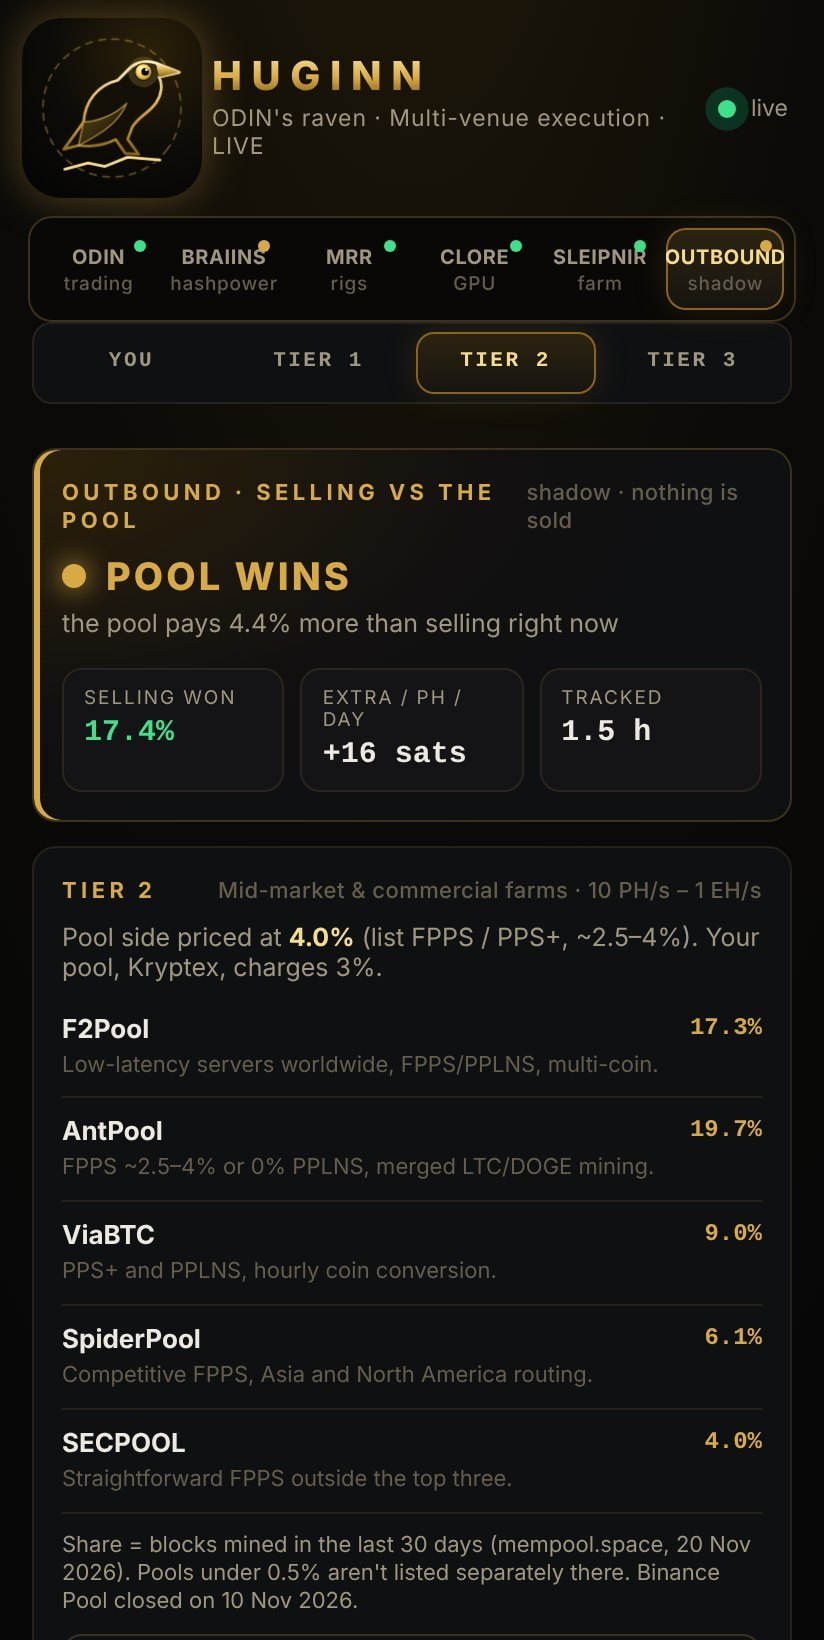
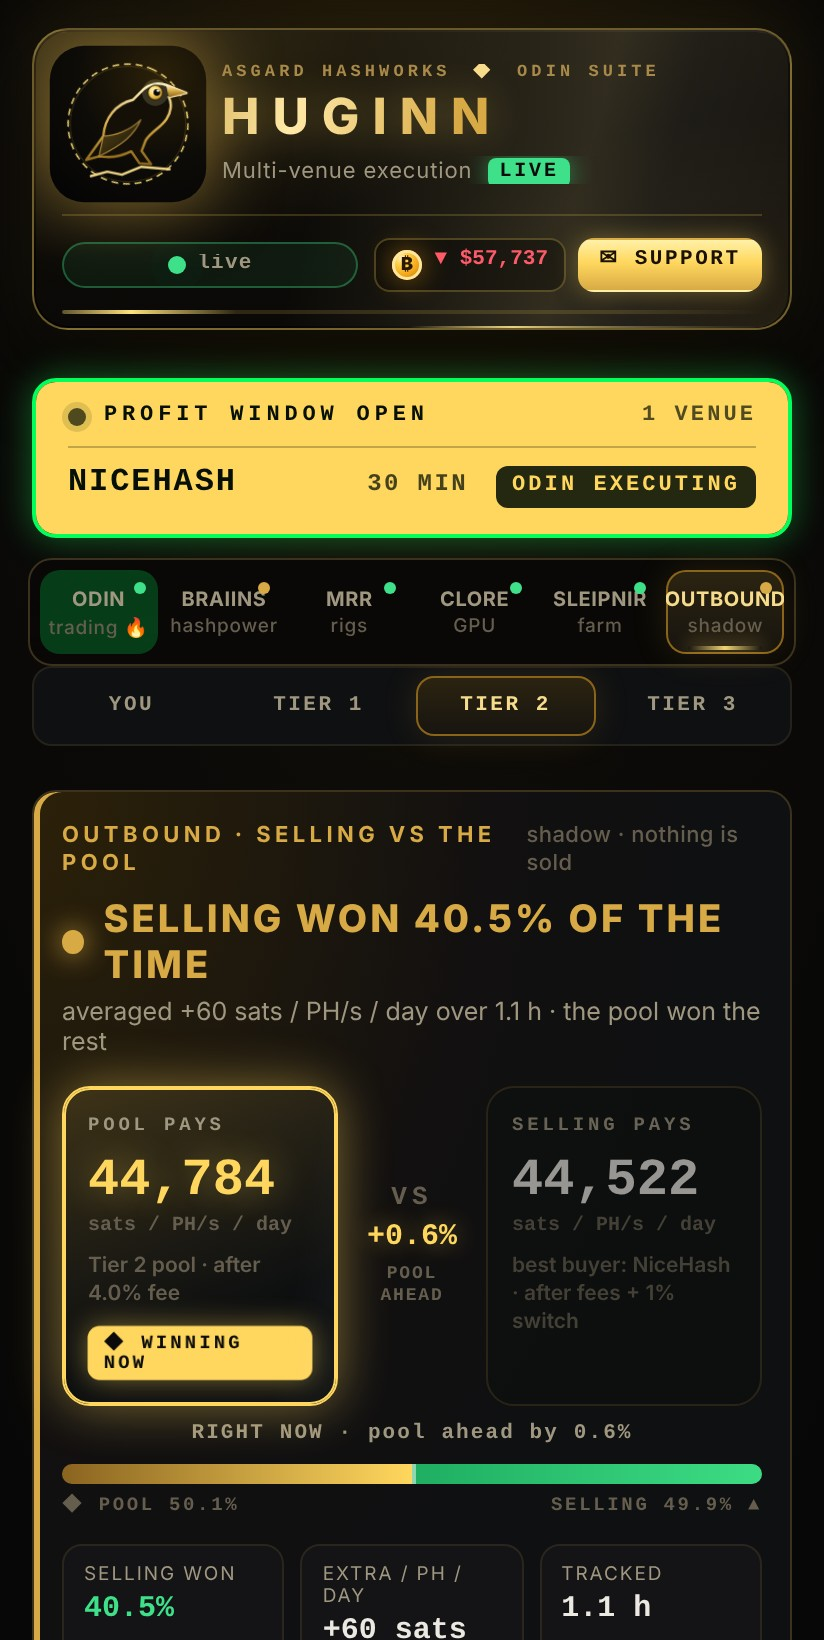
Website and README update Sat 11/21/2026

diff --git a/index.html b/index.html
@@ -974,17 +974,17 @@ odin --market nicehash live      <span class="c"># resume</span></div>
       </div>
       <div class="ob-grid">
         <div class="ob-phones">
-          <figure class="phone"><div class="frame"><img src="media/huginn-outbound-you.jpg" alt="HUGINN OUTBOUND tab, live: pool pays 45,648 sats per PH/s per day, NiceHash sellers would get 42,444, so the pool wins" loading="lazy"></div><figcaption><b>Selling vs pool</b> · every minute</figcaption></figure>
+          <figure class="phone"><div class="frame"><img src="media/huginn-outbound-you.jpg" alt="HUGINN OUTBOUND tab, live: pool pays 45,250 sats per PH/s per day, NiceHash sellers would get 44,522 after switching, so the pool wins" loading="lazy"></div><figcaption><b>Selling vs pool</b> · every minute</figcaption></figure>
           <figure class="phone"><div class="frame"><img src="media/huginn-outbound-t2.jpg" alt="HUGINN OUTBOUND Tier 2 view: mid-market farms, pool side priced at a 4% fee, with F2Pool, AntPool, ViaBTC, SpiderPool and SECPOOL" loading="lazy"></div><figcaption><b>Tier 1 · 2 · 3</b> · your pool's fee</figcaption></figure>
           <figure class="phone"><div class="frame"><img src="media/huginn-outbound-gpu.jpg" alt="HUGINN OUTBOUND GPU card: hosting on Clore.ai and Vast.ai vs mining, per model, with your own GPUs tagged and AI rental rates for H100, H200, B200 and A100" loading="lazy"></div><figcaption><b>GPUs</b> · Clore · Vast.ai · mine</figcaption></figure>
         </div>
         <div class="ob-seq">
-          <div class="step"><span class="n">01 · MEASURES</span><h3>Pool vs every buyer, every minute</h3><p>Your pool's payout after its fee, against the NiceHash clearing price after the 2% seller fee and the median price renters are paying on MiningRigRentals after its 3%. A 1% switching cost is charged against selling, so a win is a real win.</p></div>
+          <div class="step"><span class="n">01 · MEASURES</span><h3>Pool vs every buyer, every minute</h3><p>Your pool's payout after its fee, against the NiceHash clearing price after the 2% seller fee and the median price renters are paying on MiningRigRentals after its 3%, counted only for the share of time comparable rigs are actually rented. A 1% switching cost is charged against selling, thin samples are flagged low confidence, and the headline is the record, not the spike.</p></div>
           <div class="step"><span class="n">02 · BY TIER</span><h3>Priced at your pool's fee</h3><p>Tier 1, 2 and 3 views reprice the pool side at the fee each kind of operator actually pays, from negotiated institutional FPPS to list PPS+ and zero-fee pools. The answer changes with the fee, and OUTBOUND shows you yours.</p></div>
-          <div class="step"><span class="n">03 · GPUS TOO</span><h3>Host it or mine it</h3><p>For each GPU model, what renters pay on <b>Clore.ai</b> and <b>Vast.ai</b> after their cuts, against what that card earns mining. Data-centre parts (B300, GB300, B200, H200, H100, A100) show their AI rental rate. Live this morning: an RTX 5090 hosted on Vast.ai for <b>$10.56</b> a day against <b>$7.42</b> mining Pearl; an H100 SXM rents for <b>$29.28</b> a day and a B300 for <b>$189</b>. In the Tier 1 and Tier 2 views the card shows data-centre GPUs only.</p></div>
+          <div class="step"><span class="n">03 · GPUS TOO</span><h3>Host it or mine it</h3><p>For each GPU model, what renters pay on <b>Clore.ai</b> and <b>Vast.ai</b> after their cuts, against what that card earns mining. Data-centre parts (B300, GB300, B200, H200, H100, A100) show their AI rental rate. Live tonight: an RTX 5090 hosts for <b>$10.40</b> a day on Clore.ai (<b>$8.64</b> on Vast.ai) against <b>$6.66</b> mining Pearl; an H100 SXM rents for <b>$28.08</b> a day and a B300 for <b>$182.70</b>. In the Tier 1 and Tier 2 views the card shows data-centre GPUs only.</p></div>
         </div>
       </div>
-      <p class="sample mono">Live capture from our own rig · 20 Nov 2026, 09:00 CST · real numbers, nothing staged: pool 45,648 vs NiceHash seller 42,444 sats per PH/s per day, so right now the pool wins and OUTBOUND says so. On the GPU side, Vast.ai and Clore.ai hosting beat mining Pearl for most current cards.</p>
+      <p class="sample mono">Live capture from our own rig · 21 Nov 2026, 00:59 CST · real numbers, nothing staged: pool 45,250 vs NiceHash seller 44,522 sats per PH/s per day after switching, so the pool wins by 1.6% and OUTBOUND says so. Only 0.6% of comparable MRR rigs were rented, so MRR was left out as too thin to count. On the GPU side, Clore.ai and Vast.ai hosting beat mining Pearl for most current cards.</p>
       <div class="ob-build">
         <h3>Built <em>live</em> for your fleet.</h3>
         <p>Outbound routing isn't a checkbox. Every operator has a different pool contract, fleet and set of venues, so we build it with you, on your infrastructure, in stages you approve.</p>
@@ -1078,12 +1078,12 @@ odin --market nicehash live      <span class="c"># resume</span></div>
         <h2>The whole farm in your pocket.</h2>
       </div>
       <div class="phones">
-        <figure class="phone"><div class="frame"><img src="media/huginn-trading-live.jpg" alt="HUGINN trading tab, live: your order, throughput and verified profit and loss of +194 sats" loading="lazy"></div><figcaption><b>Trading</b> · your order, throughput, verified P/L</figcaption></figure>
+        <figure class="phone"><div class="frame"><img src="media/huginn-trading-live.jpg" alt="HUGINN trading tab, live: profit window open, ODIN executing, your order, throughput and verified profit and loss of +411 sats" loading="lazy"></div><figcaption><b>Trading</b> · your order, throughput, verified P/L</figcaption></figure>
         <figure class="phone"><div class="frame"><img src="media/huginn-book-live.jpg" alt="HUGINN live order book: ODIN locked level strobing gold and your own order tagged YOU" loading="lazy"></div><figcaption><b>Live order book</b> · lock, your order, tick flashes</figcaption></figure>
         <figure class="phone"><div class="frame"><img src="media/huginn-quant-live.jpg" alt="HUGINN quant desk: Bayesian regime, Ornstein-Uhlenbeck reversion, conformal forecast, Kalman delivery" loading="lazy"></div><figcaption><b>Quant desk</b> · every model, measured live</figcaption></figure>
         <figure class="phone"><div class="frame"><img src="media/huginn-clore-live.jpg" alt="HUGINN Clore tab: live GPU spot market, auto-rent armed" loading="lazy"></div><figcaption><b>GPU spot</b> · Clore market, auto-rent</figcaption></figure>
       </div>
-      <p class="sample mono">Live capture from our own rig · 20 Nov 2026, 03:38 CST · real numbers, nothing staged: verified +194 sats (NiceHash charged 16,587 · Kryptex credited 16,781), audit chain intact at 158 records.</p>
+      <p class="sample mono">Live capture from our own rig · 21 Nov 2026, 00:59 CST · real numbers, nothing staged: verified +411 sats (NiceHash charged 23,927 · Kryptex credited 24,338), audit chain intact at 551 records.</p>
     </div>
   </section>
 

diff --git a/README.md b/README.md
@@ -19,11 +19,19 @@
   <a href="SECURITY.md"><b>SECURITY POLICY</b></a>
 </p>
 
-> **New in 1.6.0:** hardened. Every release ships a CycloneDX software bill of materials and passes a RustSec vulnerability scan with zero findings. Licence answers are signed by the licence server. Every build replays a recorded NiceHash order book and thousands of corrupted copies through every parser. OUTBOUND is scored honestly. The threat model ships in every download (`docs/THREAT_MODEL.md`).
->
-> **New in 1.5.1:** a one-tap **SUPPORT** button in HUGINN (and `odin --support`) e-mails Asgard Hashworks with your diagnostics already filled in. It never includes keys, balances or addresses.
->
-> **New in 1.5.0** (20 Nov 2026): **OUTBOUND**, a sell-side shadow that compares your pool against NiceHash and MRR buyers, with Tier 1/2/3 views and a head-to-head panel. **GPU hosting on Clore.ai and Vast.ai**, including B300, B200, H200 and H100 rates. A redesigned **HUGINN** command interface: gold LOCKED ON order book, war-game rows for each venue, branded coins with live spot prices. The **SLEIPNIR 2.5** live console: one gold heartbeat, a uniform grid, your local clock, fans in RPM and a price strip for whatever you mine. [Download →](https://github.com/asgardhashworks/odin-suite-releases/releases/latest)
+<div align="center">
+
+### What's new
+
+| Release | Highlights |
+| :--- | :--- |
+| **1.6.0** · 21 Nov 2026 | **Hardened.** Every release ships a CycloneDX software bill of materials and passes a RustSec vulnerability scan with zero findings. Licence answers are signed by the licence server. Every build replays a recorded NiceHash order book and thousands of corrupted copies through every parser. OUTBOUND is scored honestly. Threat model included. |
+| **1.5.1** · 20 Nov 2026 | **One-tap SUPPORT** in HUGINN and `odin --support`: an e-mail to us with your diagnostics filled in, never your keys, balances or addresses. |
+| **1.5.0** · 20 Nov 2026 | **OUTBOUND** sell-side shadow with Tier 1/2/3 views. **GPU hosting** on Clore.ai and Vast.ai (B300, B200, H200, H100). Redesigned **HUGINN** command interface. **SLEIPNIR** live console. |
+
+<a href="https://github.com/asgardhashworks/odin-suite-releases/releases/latest"><b>Download the latest release →</b></a>
+
+</div>
 
 <p align="center">
   <a href="https://youtu.be/5db7Qg8hieY"><img src="assets/odin-teaser.gif" alt="ODIN Suite film: Bayesian change-points on real NiceHash data, the PEAK profit window, and the end card" width="100%"></a><br>
@@ -91,7 +99,7 @@ Each venue connects through an adapter that translates its native instrument (or
 | **MiningRigRentals** | Fixed-term rentals, SHA256 Asicboost and SHA-256 | **Live** | Rent-or-skip engine: scores every rig ≥ 7 PH/s on delivered hashrate, post-retarget price and fundable hours, then rents inside hard caps on rentals and sats per day. Signed API v2 (HMAC); the key carries no withdraw permission. |
 | **Clore.ai** | GPU spot rentals, paid in BTC | **Live** | Values every bitcoin-payable GPU at live Kryptex rates (Pearl, any coin, or each card's best), net of pool, renter and creation fees, start-up time and host power limits, then re-prices each candidate at the bid that would win its live auction. Hot-order alerts carry a direct server link, the winning bid and sats per day. Rented orders are guarded: ODIN re-bids 1% over any rival up to a profit ceiling and an absolute sats/day cap, steps back down while winning, and stops a rental that runs unprofitable for 10 minutes. |
 
-<h2 align="center">◆ NEW · OUTBOUND: your hashrate, sold only when it pays more</h2>
+<h2 align="center">◆ OUTBOUND: your hashrate, sold only when it pays more</h2>
 
 <p align="center">
   <img src="assets/outbound-you.jpg" alt="HUGINN OUTBOUND tab, live: pool vs NiceHash seller price" width="31%">&nbsp;
@@ -105,9 +113,10 @@ ODIN prices every venue from the buyer's side. **OUTBOUND** turns the same model
 | --- | --- |
 | **Shadow · live in HUGINN today** | Measures and sells nothing. Shows how often selling would have beaten the pool and what that was worth per PH/s per day. **Tier 1 / 2 / 3** views reprice the pool side at the fee each class of operator pays. |
 | **Routing · built per customer** | Built live with you: your pool connected (Foundry, Luxor, F2Pool, AntPool, ViaBTC, Braiins, OCEAN, …), one relay so miners are pointed once, seller accounts in your name with list-and-price keys only, caps per machine and site, SLEIPNIR heat cut-offs, a kill switch, and every switch in the hash-chained audit ledger. A 72-hour shadow run on your own numbers comes first. |
+| **Scored honestly** | A rental market only counts for the share of the time comparable rigs are actually rented; idle time earns the pool. MRR needs at least 5 rented rigs to count, and is labelled low, medium or high confidence by sample size. The headline is the record ("selling won X% of the time, averaged Y sats per PH/s per day"), never a momentary spike. |
 | **Venues** | NiceHash and MiningRigRentals (SHA-256); Clore.ai and Vast.ai (GPU hosting). Braiins Hashpower is buy-only, so there is nothing to sell into. Vast.ai does not publish its host cut; OUTBOUND assumes 25% and prices from the cheapest quarter of live asks. |
 
-<sub>Live capture from our own rig, 20 Nov 2026 09:00 CST: pool 45,648 vs NiceHash seller 42,444 sats per PH/s per day, so the pool wins and OUTBOUND says so. On Vast.ai an RTX 5090 hosts for $10.56/day against $7.42 mining Pearl, an H100 SXM rents for $29.28/day and a B300 for $189/day. BTC and PRL prices on the site and in SLEIPNIR tick green on an up-move and red on a down-move. <a href="https://asgardhashworks.github.io/odin-suite-releases/#outbound">Talk to us about your fleet →</a></sub>
+<sub>Live capture from our own rig, 21 Nov 2026 00:59 CST: pool 45,250 vs NiceHash seller 44,522 sats per PH/s per day after the 1% switching cost, so the pool wins by 1.6% and OUTBOUND says so. Only 0.6% of comparable MRR rigs were rented, so MRR was left out as too thin to count. On the GPU side an RTX 5090 hosts for $10.40/day on Clore ($8.64 on Vast.ai) against $6.66 mining Pearl; an H100 SXM rents for $28.08/day and a B300 for $182.70. BTC and PRL prices on the site and in SLEIPNIR tick green on an up-move and red on a down-move. <a href="https://asgardhashworks.github.io/odin-suite-releases/#outbound">Talk to us about your fleet →</a></sub>
 
 <img src="assets/h05.png" alt="05 Quantitative engine" width="100%">
 
@@ -158,15 +167,28 @@ Eighteen models, one decision every 2 seconds. Every model reports a statistic t
 | Network exposure | Outbound HTTPS to a short published host list. No listening ports; HUGINN binds to loopback and is published only through Tailscale. |
 | Audit trail | Every decision is appended to `odin_audit.jsonl` as a SHA-256 hash chain. `odin --verify-audit` detects any edited, deleted or reordered entry; the JSON lines feed Loki, Splunk or Elastic. |
 | Secrets at rest | API keys, secrets and passwords sealed with Windows DPAPI on first start, bound to the operator's account; owner-only file on Linux. |
-| Licensing | Ed25519-signed offline licence files, machine-bound or site-wide, verified locally. Air-gapped sites never contact a licence server. |
-| Supply chain | Binaries are built by GitHub Actions from tagged source. Every release ships `SHA256SUMS.txt`; the Linux installer refuses a mismatch. |
+| Licensing | Online keys: the licence server signs every answer (Ed25519) and offline grace runs from that signature, so a hand-edited licence cache unlocks nothing. Air-gapped sites use Ed25519-signed licence files, machine-bound or site-wide, verified locally. |
+| Supply chain | Binaries are built by GitHub Actions from tagged source. Every build must pass `clippy` with zero warnings and a RustSec vulnerability scan (zero findings in 1.6.0). Every release ships a CycloneDX SBOM (`odin-sbom.json`, `sleipnir-sbom.json`) and `SHA256SUMS.txt`; the Linux installer refuses a mismatch. |
+| Hostile input | Every number from an outside API is checked to be finite before it reaches the maths. Each build replays a recorded NiceHash order book and thousands of corrupted copies (wrong types, nulls, `NaN`, `1e308`, truncated bodies, outage pages) through every parser: NiceHash, MRR, Clore, Braiins, the licence server and the miner and sensor APIs. |
+| Threat model | `docs/THREAT_MODEL.md` (in every download) lists what is protected, the defence for each threat and the residual risks. An outside penetration-test scope is in `docs/PENTEST_SCOPE.md`. |
 
 Vulnerability reports: [SECURITY.md](SECURITY.md) · Support channels and response targets: [SUPPORT.md](SUPPORT.md)
 
 <img src="assets/h07.png" alt="07 Operator telemetry" width="100%">
 
-<p align="center"><img src="assets/huginn-live.png" alt="HUGINN live capture, 20 Nov 2026: verified +194 sats, live order book, quant desk and Clore GPU spot" width="100%"></p>
-<p align="center"><sub>Live capture from our own rig, 20 Nov 2026 03:38 CST. Real numbers, nothing staged: verified <b>+194 sats</b> (NiceHash charged 16,587 · Kryptex credited 16,781), audit chain intact at 158 records. ODIN is parked at 0.4331 because the market sits above its profitable ceiling: the profit guard holds rather than overpay.</sub></p>
+- **HUGINN**: your whole operation on your phone, read-only:
+  - the gold LOCKED ON order book and a war-game row for every venue;
+  - OUTBOUND and GPU hosting;
+  - every coin your rigs mine, with its icon and live spot price.
+- **SUPPORT, one tap**: opens an e-mail to us with version, plan, mode, markets, kill switch, rig states and recent events already filled in, never keys, balances or addresses. It turns red (URGENT) when the kill switch trips or a rig needs attention. From a shell: `odin --support`.
+- **SLEIPNIR 2.6**: a live fleet console:
+  - one gold heartbeat across the window and the same column grid on every unit;
+  - your PC's own clock and time zone;
+  - fans in RPM and CPU clocks;
+  - a price strip that follows whatever coins your rigs mine.
+
+<p align="center"><img src="assets/huginn-live.png" alt="HUGINN live capture, 21 Nov 2026: a NiceHash profit window open, ODIN executing, live order and verified +411 sats" width="100%"></p>
+<p align="center"><sub>Live capture from our own rig, 21 Nov 2026 00:59 CST. Real numbers, nothing staged: verified <b>+411 sats</b> (NiceHash charged 23,927 · Kryptex credited 24,338), audit chain intact at 551 records. A NiceHash profit window is open and ODIN is executing: 225 TH/s delivered on a 0.4298 order. Minutes later the profit guard parked it again when the market rose above its profitable maximum.</sub></p>
 
 <img src="assets/h08.png" alt="08 Deployment" width="100%">
 
